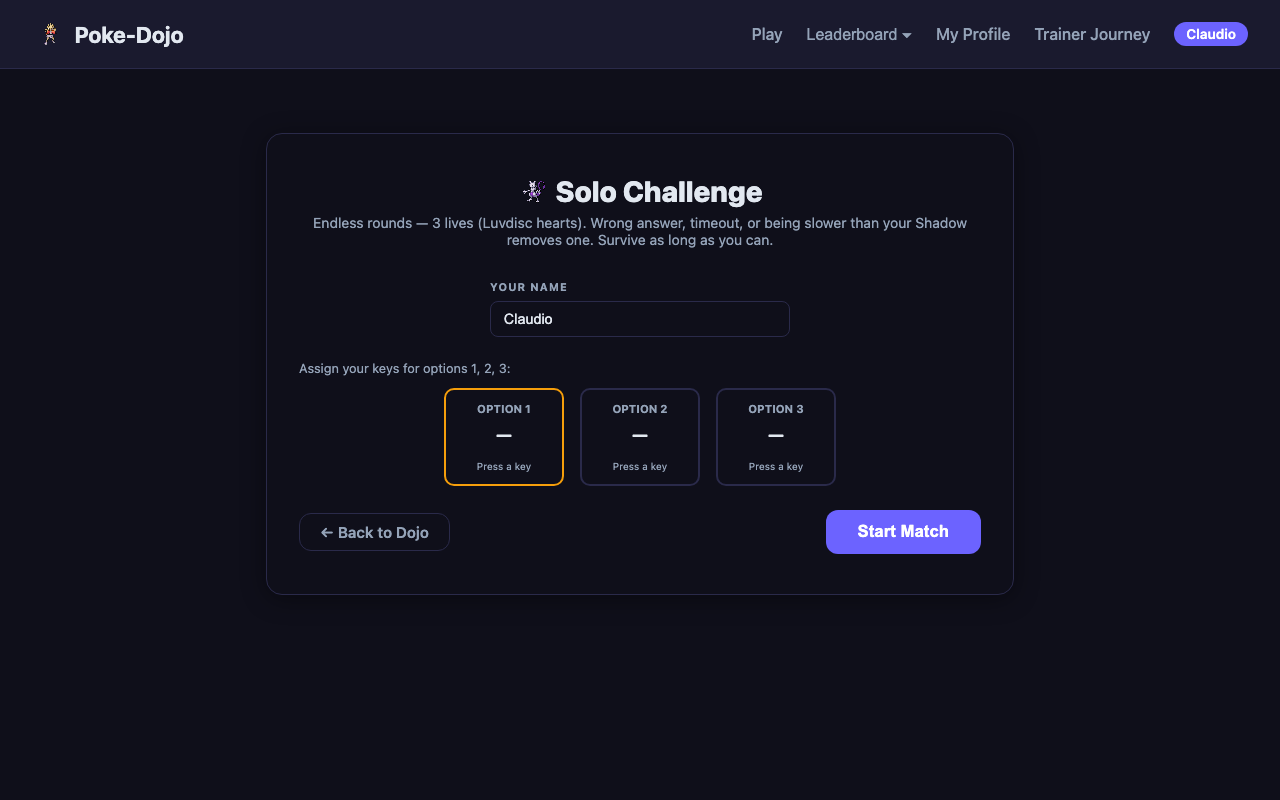
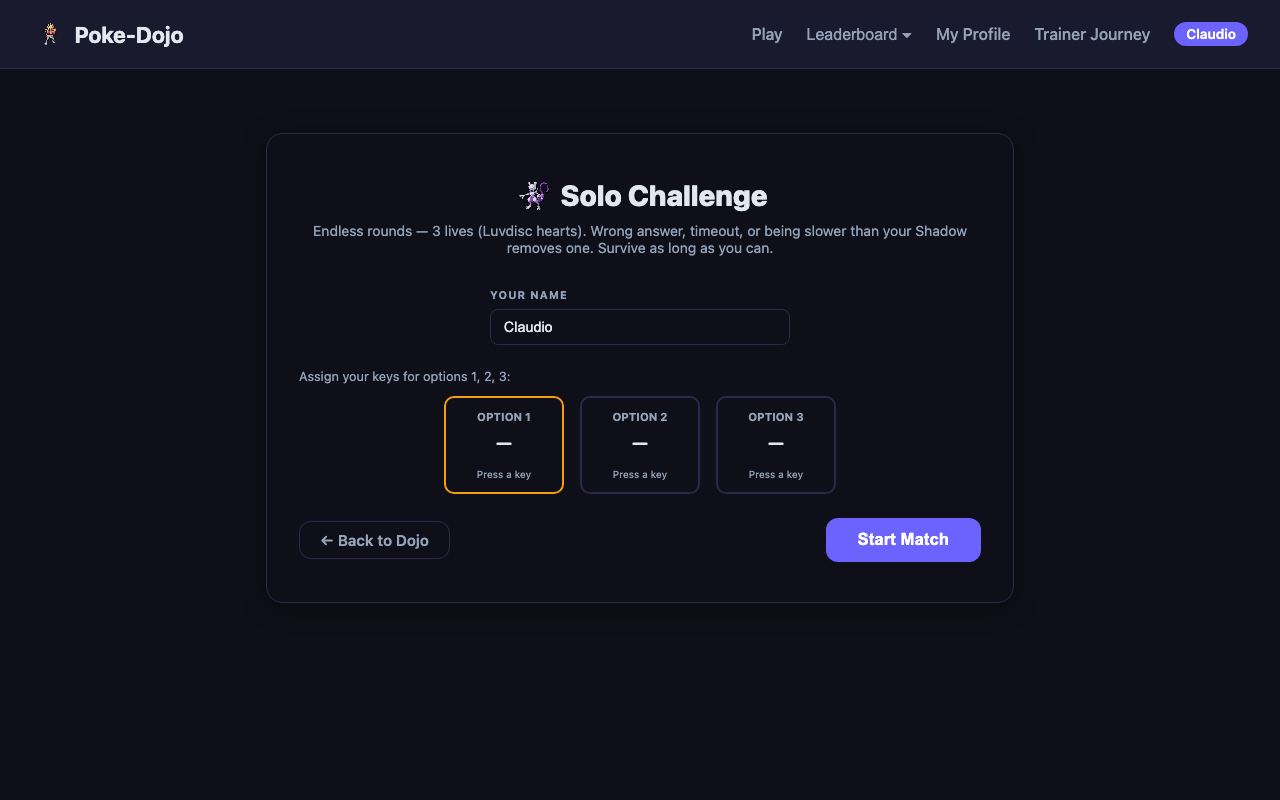
Increase Metapod/Mewtwo sprite sizes (sidebar 30px, title 42px)

diff --git a/static/css/style.css b/static/css/style.css
@@ -1323,7 +1323,7 @@ a:hover { color: var(--accent-hover); }
 }
 .battle-btn:hover { background: rgba(99, 102, 241, 0.18); border-color: #6366f1; }
 .battle-btn-icon { display: inline-flex; align-items: center; gap: 2px; flex-shrink: 0; }
-.battle-btn-sprite { width: 24px; height: 24px; image-rendering: pixelated; }
+.battle-btn-sprite { width: 30px; height: 30px; image-rendering: pixelated; }
 .battle-btn-sprite-flip { transform: scaleX(-1); }
 .battle-btn-text { display: flex; flex-direction: column; line-height: 1.3; }
 .battle-btn-sub { font-size: 0.65rem; color: var(--text-muted); }
@@ -1355,7 +1355,7 @@ a:hover { color: var(--accent-hover); }
   justify-content: center;
   gap: 0.4rem;
 }
-.arena-title-sprite { width: 32px; height: 32px; image-rendering: pixelated; flex-shrink: 0; }
+.arena-title-sprite { width: 42px; height: 42px; image-rendering: pixelated; flex-shrink: 0; }
 .arena-title-sprite-flip { transform: scaleX(-1); }
 .arena-subtitle {
   color: var(--text-muted);